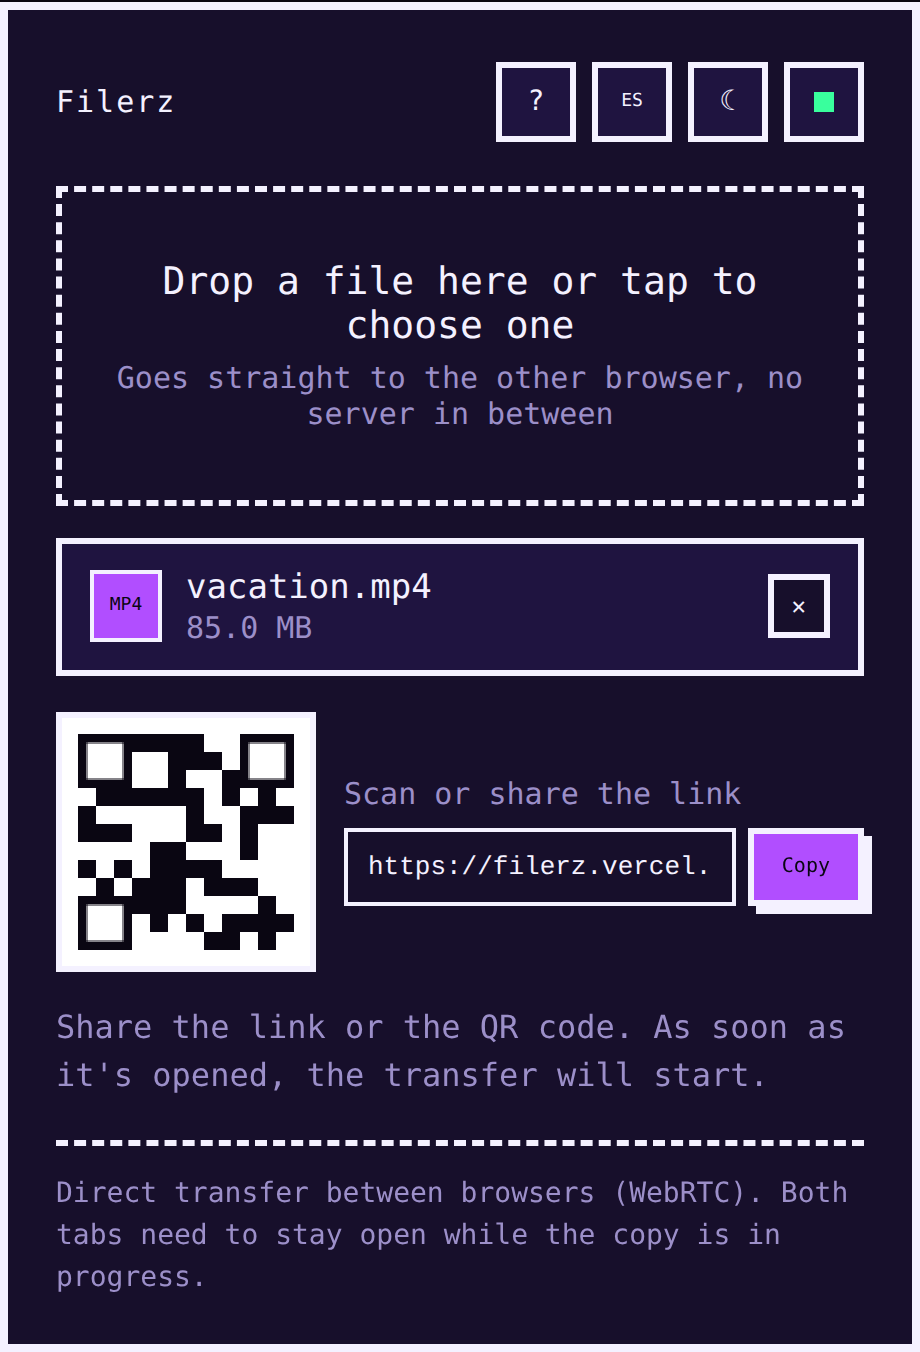
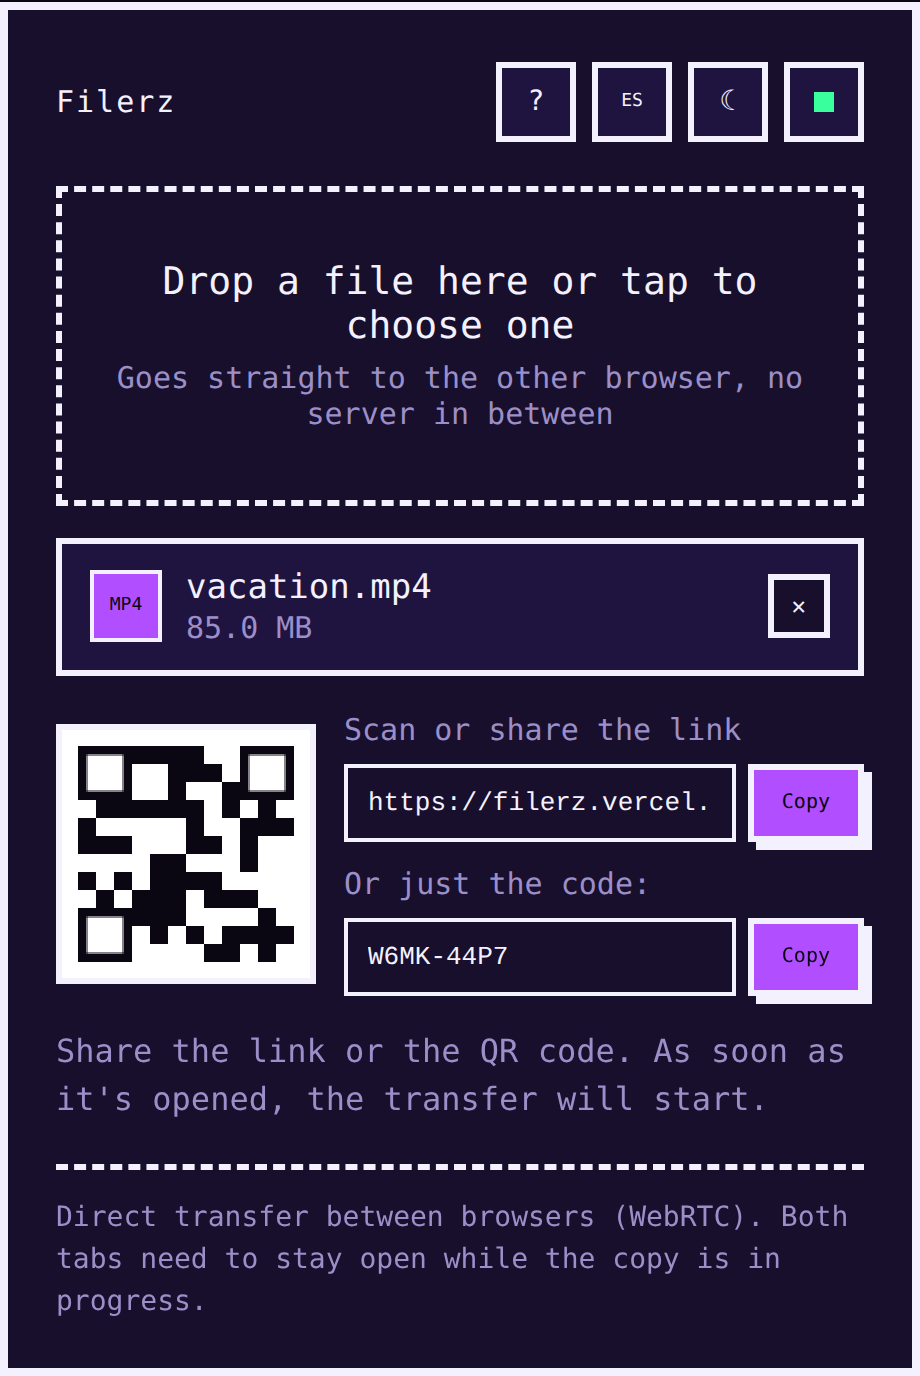
Añadir campo para copiar solo el código en la pantalla del emisor
Claude-Session: https://claude.ai/code/session_01TA1YP5pw71cHVW1Vip2vhd

diff --git a/index.html b/index.html
@@ -326,6 +326,7 @@
     color: var(--text-soft);
   }
   .link-row { display: flex; gap: 6px; }
+  .link-row + .code-only-hint { margin-top: 12px; }
   .link-input {
     flex: 1;
     min-width: 0;
@@ -579,7 +580,12 @@
         <p data-i18n="shareHint">Escanea o comparte el enlace</p>
         <div class="link-row">
           <input class="link-input" id="linkInput" readonly>
-          <button id="copyBtn" data-i18n="copyBtn">Copiar</button>
+          <button id="copyBtn" aria-label="Copiar enlace" data-i18n="copyBtn" data-i18n-label="copyLinkAriaLabel">Copiar</button>
+        </div>
+        <p class="code-only-hint" data-i18n="codeOnlyHint">O solo el código:</p>
+        <div class="link-row">
+          <input class="link-input code-input" id="codeOnlyInput" readonly>
+          <button id="copyCodeBtn" aria-label="Copiar código" data-i18n="copyBtn" data-i18n-label="copyCodeAriaLabel">Copiar</button>
         </div>
       </div>
     </div>
@@ -636,7 +642,7 @@
     </div>
     <div class="modal-body">
       <h3 data-i18n="helpSendHeading">Enviar un archivo</h3>
-      <p data-i18n="helpSendBody">Elige o suelta un archivo. Se genera un enlace y un código QR de un solo uso: compártelo con quien vaya a recibirlo, por el medio que prefieras.</p>
+      <p data-i18n="helpSendBody">Elige o suelta un archivo. Se genera un enlace y un código QR de un solo uso: compártelo con quien vaya a recibirlo, por el medio que prefieras. Debajo del enlace hay un campo con solo el código, más cómodo de copiar o dictar en pantallas pequeñas.</p>
       <h3 data-i18n="helpReceiveHeading">Recibir un archivo</h3>
       <p data-i18n="helpReceiveBody">Abre el enlace (o escanea el QR) y la descarga arranca sola. Si el archivo es grande y tu navegador lo permite, primero te pedirá dónde guardarlo. Si no tienes el enlace a mano, en la pantalla principal puedes escribir el código o escanear el QR con el botón dedicado.</p>
       <h3 data-i18n="helpNotesHeading">A tener en cuenta</h3>
@@ -686,6 +692,9 @@
       cancelAriaLabel: 'Cancelar y elegir otro archivo',
       shareHint: 'Escanea o comparte el enlace',
       copyBtn: 'Copiar',
+      copyLinkAriaLabel: 'Copiar enlace',
+      copyCodeAriaLabel: 'Copiar código',
+      codeOnlyHint: 'O solo el código:',
       copiedFlash: 'Copiado',
       waitingRecipient: 'esperando destinatario',
       senderDefaultStatus: 'Al elegir un archivo se generará un enlace y un código QR de un solo uso.',
@@ -772,6 +781,9 @@
       cancelAriaLabel: 'Cancel and choose another file',
       shareHint: 'Scan or share the link',
       copyBtn: 'Copy',
+      copyLinkAriaLabel: 'Copy link',
+      copyCodeAriaLabel: 'Copy code',
+      codeOnlyHint: 'Or just the code:',
       copiedFlash: 'Copied',
       waitingRecipient: 'waiting for recipient',
       senderDefaultStatus: 'Choosing a file generates a one-time link and QR code.',
@@ -786,7 +798,7 @@
       helpTitle: 'Help',
       closeHelpAriaLabel: 'Close help',
       helpSendHeading: 'Sending a file',
-      helpSendBody: "Choose or drop a file. A one-time link and QR code are generated — share it with whoever's receiving it, however you like.",
+      helpSendBody: "Choose or drop a file. A one-time link and QR code are generated — share it with whoever's receiving it, however you like. Below the link there's a field with just the code, handier to copy or read out on small screens.",
       helpReceiveHeading: 'Receiving a file',
       helpReceiveBody: "Open the link (or scan the QR code) and the download starts on its own. If the file is large and your browser supports it, it'll first ask where to save it. If you don't have the link handy, on the main screen you can type the code or scan the QR with the dedicated button.",
       helpNotesHeading: 'Good to know',
@@ -1338,6 +1350,8 @@
     const qrChip = document.getElementById('qrChip');
     const linkInput = document.getElementById('linkInput');
     const copyBtn = document.getElementById('copyBtn');
+    const codeOnlyInput = document.getElementById('codeOnlyInput');
+    const copyCodeBtn = document.getElementById('copyCodeBtn');
     const sendProgressWrap = document.getElementById('sendProgressWrap');
     const sendFill = document.getElementById('sendFill');
     const sendPct = document.getElementById('sendPct');
@@ -1431,6 +1445,7 @@
       peer.on('open', (id) => {
         const url = location.origin + location.pathname + '#r=' + id;
         linkInput.value = url;
+        codeOnlyInput.value = id;
         shareRow.classList.add('show');
         qrChip.innerHTML = '';
         new QRCode(qrChip, {
@@ -1559,6 +1574,13 @@
       navigator.clipboard.writeText(linkInput.value).then(() => {
         copyBtn.textContent = t('copiedFlash');
         setTimeout(() => { copyBtn.textContent = t('copyBtn'); }, 1500);
+      });
+    });
+
+    copyCodeBtn.addEventListener('click', () => {
+      navigator.clipboard.writeText(codeOnlyInput.value).then(() => {
+        copyCodeBtn.textContent = t('copiedFlash');
+        setTimeout(() => { copyCodeBtn.textContent = t('copyBtn'); }, 1500);
       });
     });
   }

diff --git a/sw.js b/sw.js
@@ -1,7 +1,7 @@
 // Subir este número en cada deploy que cambie index.html, manifest.json o los
 // íconos: es lo único que hace que el navegador detecte una versión nueva del
 // service worker y dispare el aviso de "recargar para actualizar" en la app.
-const CACHE_NAME = 'filerz-shell-v12';
+const CACHE_NAME = 'filerz-shell-v13';
 const SHELL_ASSETS = [
   '/',
   '/index.html',

diff --git a/README.md b/README.md
@@ -10,7 +10,7 @@ Transferencia de archivos peer-to-peer, al estilo [file.pizza](https://file.pizz
 
 ## Qué hace
 
-- El emisor elige un archivo y se genera un **enlace de un solo uso** + un **código QR**.
+- El emisor elige un archivo y se genera un **enlace de un solo uso** + un **código QR**. Debajo del enlace hay un campo con solo el código (por ejemplo `ABCD-1234`), para copiarlo o dictarlo cuando el enlace completo es incómodo de compartir, especialmente en pantallas pequeñas.
 - Por ahora se envía **un archivo por transferencia** (no hay selección múltiple); para mandar varios, comprímelos en un `.zip` y comparte ese archivo.
 - El receptor abre el enlace (o escanea el QR) y la transferencia arranca sola. Si no tiene el enlace a mano, también puede escribir el código directamente en la página o escanear el QR con la cámara del dispositivo, sin salir a una app externa.
 - Barra de progreso en ambos lados, con **velocidad y tiempo restante estimado**, mientras dura la copia.

diff --git a/README.en.md b/README.en.md
@@ -10,7 +10,7 @@ Peer-to-peer file transfer, [file.pizza](https://file.pizza)-style: the file tra
 
 ## What it does
 
-- The sender picks a file and a **one-time link** + a **QR code** are generated.
+- The sender picks a file and a **one-time link** + a **QR code** are generated. Below the link there's a field with just the code (e.g. `ABCD-1234`), to copy or read aloud when the full link is awkward to share, especially on small screens.
 - Right now it's **one file per transfer** (no multi-select yet); to send several, zip them up and share that file instead.
 - The recipient opens the link (or scans the QR code) and the transfer starts on its own. Without the link handy, they can also type the code directly on the page or scan the QR with the device's camera, no external app needed.
 - A progress bar on both sides, with **transfer speed and estimated time left**, while the copy is running.

diff --git a/CHANGELOG.md b/CHANGELOG.md
@@ -9,6 +9,11 @@ y este proyecto usa [Versionado Semántico](https://semver.org/lang/es/).
 
 ## [Unreleased]
 
+## [0.11.0] - 2026-09-24
+
+### Added
+- Campo adicional debajo del enlace, en la pantalla del emisor, con solo el código de la sesión (p. ej. `ABCD-1234`) y su propio botón de copiar. Pensado para cuando el enlace completo es incómodo de copiar o dictar, sobre todo en pantallas de móvil.
+
 ## [0.10.5] - 2026-09-24
 
 ### Documentation
